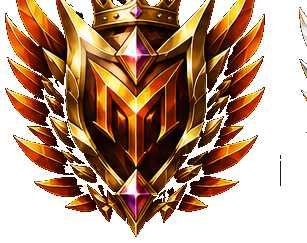
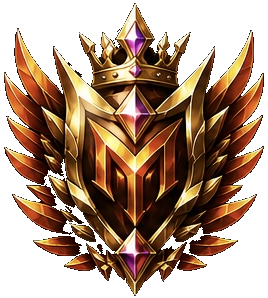
残りのリーグバッジ画像を差し替え、フレンド検索の大文字小文字バグを修正
- マスター〜マインドキングの5リーグ分バッジ画像を新素材に差し替え
- フレンド検索・ユーザー名指定でのフレンド申請がユーザー名の大文字小文字を厳密一致でしか検索しておらず、登録時と異なるケースで検索すると「見つかりません」になっていた不具合を修正(大文字小文字を区別しない検索に変更)

diff --git a/src/features/friends/friend.service.ts b/src/features/friends/friend.service.ts
@@ -32,7 +32,7 @@ export async function listOutgoingFriendRequests(userId: string) {
 /** Looks up a player by exact username so a request can be sent; excludes the caller and reveals no unrelated accounts. */
 export async function searchPlayerByUsername(userId: string, username: string) {
   const profile = await requireProfile(userId);
-  const targetUser = await userRepository.findByUsername(username);
+  const targetUser = await userRepository.findByUsernameCaseInsensitive(username);
   if (!targetUser) throw new AppError("NOT_FOUND", "そのユーザー名のプレイヤーは見つかりませんでした。");
 
   const targetProfile = await playerProfileRepository.findByUserId(targetUser.id);

diff --git a/src/infrastructure/repositories/user.repository.ts b/src/infrastructure/repositories/user.repository.ts
@@ -14,6 +14,13 @@ export const userRepository = {
     return prisma.user.findUnique({ where: { username } });
   },
 
+  /** Case-insensitive lookup for user-facing username search (friend search, add-by-username) —
+   * usernames are stored with whatever casing the owner registered with, but players shouldn't
+   * need to remember it exactly to find each other. */
+  async findByUsernameCaseInsensitive(username: string) {
+    return prisma.user.findFirst({ where: { username: { equals: username, mode: "insensitive" } } });
+  },
+
   async findByEmail(email: string) {
     return prisma.user.findUnique({ where: { email } });
   },

diff --git a/src/features/friends/friend-request.service.ts b/src/features/friends/friend-request.service.ts
@@ -13,7 +13,7 @@ async function requireProfile(userId: string) {
 export async function sendFriendRequest(userId: string, targetUsername: string) {
   const profile = await requireProfile(userId);
 
-  const targetUser = await userRepository.findByUsername(targetUsername);
+  const targetUser = await userRepository.findByUsernameCaseInsensitive(targetUsername);
   if (!targetUser) throw new AppError("NOT_FOUND", "そのユーザー名のプレイヤーは見つかりませんでした。");
 
   const targetProfile = await playerProfileRepository.findByUserId(targetUser.id);

diff --git a/tests/integration/friends-flow.test.ts b/tests/integration/friends-flow.test.ts
@@ -66,6 +66,12 @@ describe("friend request lifecycle", () => {
     expect(result.displayName).toBe(BOB_USERNAME);
   });
 
+  it("finds the other player regardless of the casing used to search", async () => {
+    const result = await searchPlayerByUsername(aliceUserId, BOB_USERNAME.toUpperCase());
+    expect(result.relation).toBe("NONE");
+    expect(result.displayName).toBe(BOB_USERNAME);
+  });
+
   it("rejects a self-friend request", async () => {
     await expect(sendFriendRequest(aliceUserId, ALICE_USERNAME)).rejects.toThrow(AppError);
   });
